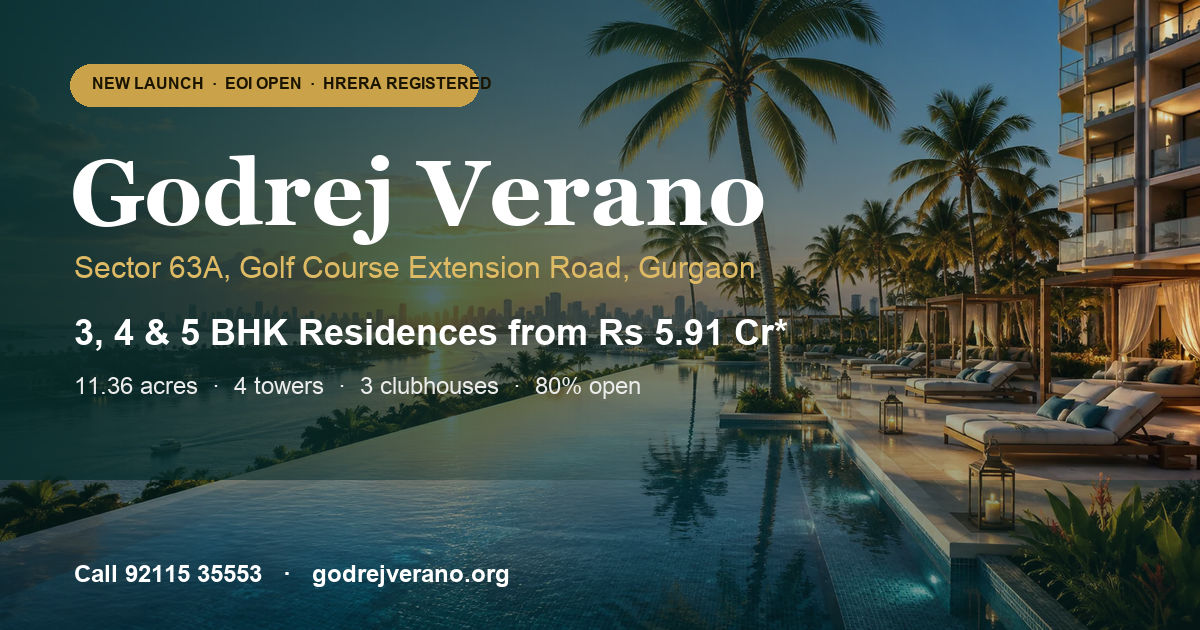
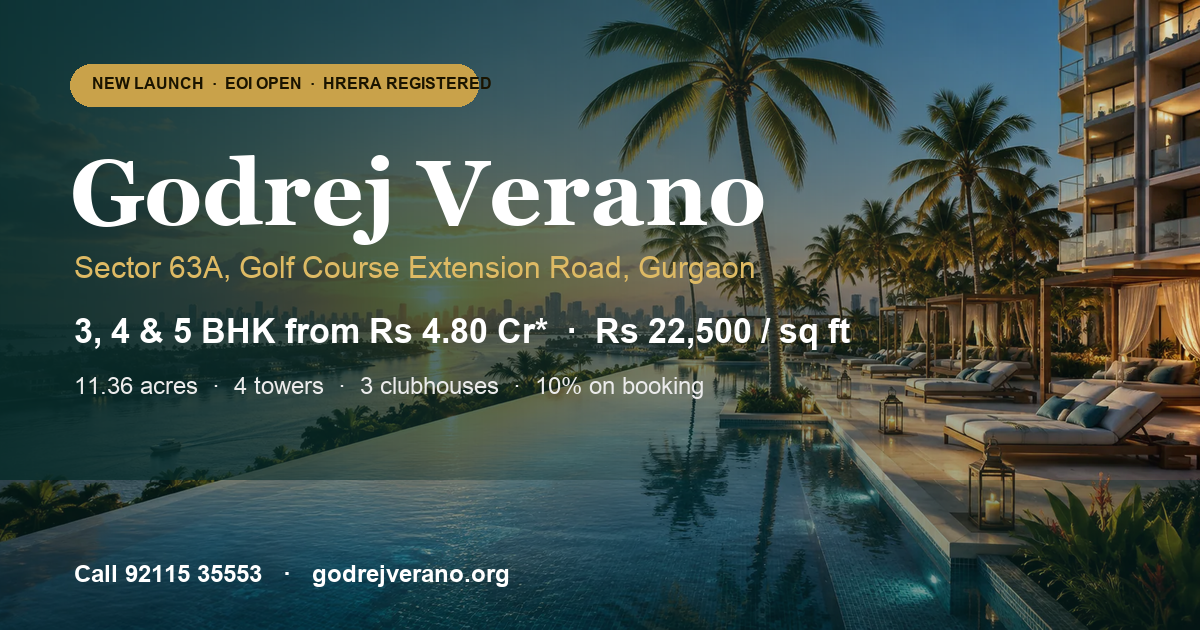
Price at Rs 22,500 per sq ft, new sizes and construction linked payment schedule
3 BHK 2,133 to 2,185 sq ft (Rs 4.80 to 4.92 Cr), 3 BHK + Utility 2,560 to
2,726 (Rs 5.76 to 6.13 Cr), 4 BHK + Utility 2,909 (Rs 6.55 Cr), 5 BHK +
Utility 3,829 (Rs 8.62 Cr). Penthouses removed. 20 x 5 replaced with the
milestone schedule as a table. Title, meta, schema, llms.txt, price band
and share image updated.

Changed region(s): [[0.0617, 0.4825, 0.7092, 0.573], [0.4933, 0.6032, 0.5858, 0.6333], [0.4317, 0.6032, 0.4625, 0.6333]]

diff --git a/index.html b/index.html
@@ -3,8 +3,8 @@
 <head>
 <meta charset="UTF-8">
 <meta name="viewport" content="width=device-width, initial-scale=1">
-<title>Godrej Verano Sector 63A Gurgaon | 3-5 BHK from ₹5.91 Cr*</title>
-<meta name="description" content="Godrej Verano, Sector 63A on Golf Course Extn Road, Gurgaon. 3, 4 &amp; 5 BHK from ₹5.91 Cr*, 3 clubhouses, HRERA registered. Price list &amp; site visit: 9211535553.">
+<title>Godrej Verano Sector 63A Gurgaon | 3-5 BHK from ₹4.80 Cr*</title>
+<meta name="description" content="Godrej Verano, Sector 63A on Golf Course Extn Road, Gurgaon. 3, 4 &amp; 5 BHK from ₹4.80 Cr*, 3 clubhouses, HRERA registered. Price list &amp; site visit: 9211535553.">
 <meta name="keywords" content="Godrej Verano, Godrej Verano Gurgaon, Godrej Verano Sector 63A Gurgaon, Godrej Verano price, Godrej Verano location, Godrej Verano RERA, Godrej Verano HRERA, Godrej Verano brochure PDF, Godrej Verano reviews, Godrej Verano floor plan, Godrej Verano payment plan, Godrej Sector 63A Gurgaon">
 <meta name="robots" content="index, follow, max-snippet:-1, max-image-preview:large, max-video-preview:-1">
 <meta name="googlebot" content="index, follow, max-snippet:-1, max-image-preview:large">
@@ -29,7 +29,7 @@
 <meta property="og:type" content="website">
 <meta property="og:locale" content="en_IN">
 <meta property="og:site_name" content="Godrej Verano Gurgaon">
-<meta property="og:title" content="Godrej Verano Sector 63A Gurgaon | 3, 4 &amp; 5 BHK from ₹5.91 Cr* | Price List &amp; Floor Plans">
+<meta property="og:title" content="Godrej Verano Sector 63A Gurgaon | 3, 4 &amp; 5 BHK from ₹4.80 Cr* | Price List &amp; Floor Plans">
 <meta property="og:description" content="Godrej Properties new launch on Golf Course Extension Road. 11.36 acres, only 4 towers, 3 clubhouses, 80% open. HRERA registered, EOI open. Get the price list on WhatsApp: 9211535553.">
 <meta property="og:url" content="https://godrejverano.org/">
 <meta property="og:image" content="https://godrejverano.org/og.png">
@@ -37,7 +37,7 @@
 <meta property="og:image:height" content="630">
 <meta property="og:image:alt" content="Godrej Verano Sector 63A Gurgaon, 3 4 5 BHK homes on Golf Course Extension Road">
 <meta name="twitter:card" content="summary_large_image">
-<meta name="twitter:title" content="Godrej Verano Sector 63A Gurgaon | 3, 4 &amp; 5 BHK from ₹5.91 Cr*">
+<meta name="twitter:title" content="Godrej Verano Sector 63A Gurgaon | 3, 4 &amp; 5 BHK from ₹4.80 Cr*">
 <meta name="twitter:description" content="Godrej Properties new launch on Golf Course Extension Road. Price list, floor plans, payment plan and site visit. Call 9211535553.">
 <meta name="twitter:image" content="https://godrejverano.org/og.png">
 
@@ -60,8 +60,8 @@
       "@type": "WebPage",
       "@id": "https://godrejverano.org/#webpage",
       "url": "https://godrejverano.org/",
-      "name": "Godrej Verano Sector 63A Gurgaon | 3-5 BHK from ₹5.91 Cr*",
-      "description": "Godrej Verano, Sector 63A on Golf Course Extn Road, Gurgaon. 3, 4 & 5 BHK from ₹5.91 Cr*, 3 clubhouses, HRERA registered. Price list & site visit: 9211535553.",
+      "name": "Godrej Verano Sector 63A Gurgaon | 3-5 BHK from ₹4.80 Cr*",
+      "description": "Godrej Verano, Sector 63A on Golf Course Extn Road, Gurgaon. 3, 4 & 5 BHK from ₹4.80 Cr*, 3 clubhouses, HRERA registered. Price list & site visit: 9211535553.",
       "isPartOf": {
         "@id": "https://godrejverano.org/#website"
       },
@@ -151,7 +151,7 @@
         "https://godrejverano.org/images/floor-plan-3bhk-1400.avif",
         "https://godrejverano.org/images/floor-plan-4bhk-1400.avif"
       ],
-      "description": "Godrej Verano is a residential project by Godrej Properties in Sector 63A, Golf Course Extension Road, Gurugram. 11.36 acres, 4 high rise towers, around 624 homes, 3 clubhouses, 3 BHK, 4 BHK and 5 BHK apartments from 2,150 to 3,900 sq ft.",
+      "description": "Godrej Verano is a residential project by Godrej Properties in Sector 63A, Golf Course Extension Road, Gurugram. 11.36 acres, 4 high rise towers, around 624 homes, 3 clubhouses, 3 BHK, 4 BHK and 5 BHK apartments from 2,133 to 3,829 sq ft.",
       "address": {
         "@type": "PostalAddress",
         "streetAddress": "Sector 63A, Golf Course Extension Road",
@@ -265,7 +265,7 @@
         {
           "@type": "PropertyValue",
           "name": "Base rate",
-          "value": "Approx. ₹27,490 per sq ft super area"
+          "value": "₹22,500 per sq ft super area"
         }
       ]
     },
@@ -274,7 +274,7 @@
       "@id": "https://godrejverano.org/#offer",
       "name": "Godrej Verano 3, 4 and 5 BHK Apartments",
       "image": "https://godrejverano.org/og.png",
-      "description": "3 BHK of 2,150 or 2,250 sq ft, 3 BHK + utility of 2,575 or 2,750 sq ft, 4 BHK + utility of 2,950 sq ft, 5 BHK + utility of 3,900 sq ft at Godrej Verano, Sector 63A Gurugram. Penthouses on request.",
+      "description": "3 BHK of 2,133 to 2,185 sq ft, 3 BHK + utility of 2,560 to 2,726 sq ft, 4 BHK + utility of 2,909 sq ft and 5 BHK + utility of 3,829 sq ft at Godrej Verano, Sector 63A Gurugram, at ₹22,500 per sq ft of super area.",
       "brand": {
         "@type": "Brand",
         "name": "Godrej Properties"
@@ -282,9 +282,9 @@
       "offers": {
         "@type": "AggregateOffer",
         "priceCurrency": "INR",
-        "lowPrice": "59100000",
-        "highPrice": "107200000",
-        "offerCount": "6",
+        "lowPrice": "47992500",
+        "highPrice": "86152500",
+        "offerCount": "4",
         "availability": "https://schema.org/PreOrder",
         "url": "https://godrejverano.org/#price",
         "seller": {
@@ -301,7 +301,7 @@
           "name": "What is the price of Godrej Verano Sector 63A?",
           "acceptedAnswer": {
             "@type": "Answer",
-            "text": "Godrej Verano starts at about ₹5.91 Cr for a 3 BHK of 2,150 sq ft, or ₹6.18 Cr for the 2,250 sq ft version. 3 BHK with utility room is ₹7.08 Cr for 2,575 sq ft or ₹7.56 Cr for 2,750 sq ft, 4 BHK with utility room about ₹8.11 Cr and 5 BHK with utility room about ₹10.72 Cr. The base rate works out to roughly ₹27,490 per sq ft of super area. PLC, floor rise, parking, club charges and GST are extra. Prices are indicative and change with each sales tranche."
+            "text": "Godrej Verano is priced at ₹22,500 per sq ft of super area. That gives a 3 BHK of 2,133 to 2,185 sq ft at ₹4.80 Cr to ₹4.92 Cr, a 3 BHK with utility room of 2,560 to 2,726 sq ft at ₹5.76 Cr to ₹6.13 Cr, a 4 BHK with utility room of 2,909 sq ft at about ₹6.55 Cr and a 5 BHK with utility room of 3,829 sq ft at about ₹8.62 Cr. IFMS, CAM and government charges are extra. Prices change with each sales tranche."
           }
         },
         {
@@ -333,7 +333,7 @@
           "name": "What configurations and sizes are available at Godrej Verano?",
           "acceptedAnswer": {
             "@type": "Answer",
-            "text": "Six layouts: 3 BHK of 2,150 or 2,250 sq ft, 3 BHK + utility room of 2,575 or 2,750 sq ft, 4 BHK + utility room of 2,950 sq ft and 5 BHK + utility room of 3,900 sq ft. Penthouses between roughly 4,500 and 6,500 sq ft are on request. Sizes quoted are super built up area."
+            "text": "Four configurations: 3 BHK of 2,133 to 2,185 sq ft, 3 BHK + utility room of 2,560 to 2,726 sq ft, 4 BHK + utility room of 2,909 sq ft and 5 BHK + utility room of 3,829 sq ft. Sizes quoted are super built up area."
           }
         },
         {
@@ -341,7 +341,7 @@
           "name": "What is the payment plan at Godrej Verano?",
           "acceptedAnswer": {
             "@type": "Answer",
-            "text": "Godrej has indicated a 20 x 5 construction linked payment plan, five instalments of 20 percent each against construction milestones. EOI is ₹10 lakh and gets adjusted in the booking amount. By law the developer cannot take more than 10 percent of the price before the registered agreement for sale. Ask for the written schedule before you pay anything."
+            "text": "The plan is construction linked, with only 10 percent at booking: 5 percent as application money and the rest within 18 days. Then 15 percent on 1 June 2027, 25 percent on completion of the 4th floor slab or 15 September 2028, whichever is later, 25 percent on completion of the 32nd floor, 20 percent on application for the occupation certificate and 5 percent on offer of possession. EOI is ₹10 lakh and gets adjusted in the booking amount. By law the developer cannot take more than 10 percent of the price before the registered agreement for sale. Ask for the written schedule before you pay anything."
           }
         },
         {
@@ -357,7 +357,7 @@
           "name": "Is Godrej Verano a good investment?",
           "acceptedAnswer": {
             "@type": "Answer",
-            "text": "Golf Course Extension Road has been the fastest appreciating corridor in Gurgaon over the last four years, and Sector 63A is one of the last large land parcels on it. Godrej paid roughly ₹1,000 Cr for 11.36 acres and expects ₹4,500 Cr in sales, which tells you how the developer views the location. That said, this is a 2033 completion project at ₹27,000 plus per sq ft, so it suits end users and patient investors, not short term flippers."
+            "text": "Golf Course Extension Road has been the fastest appreciating corridor in Gurgaon over the last four years, and Sector 63A is one of the last large land parcels on it. Godrej paid roughly ₹1,000 Cr for 11.36 acres and expects ₹4,500 Cr in sales, which tells you how the developer views the location. That said, this is a 2033 completion project at ₹22,500 per sq ft, so it suits end users and patient investors, not short term flippers."
           }
         },
         {
@@ -462,12 +462,12 @@
     <div class="hero__copy">
       <p class="eyebrow"><span class="dot"></span> New Launch &middot; EOI Open &middot; HRERA Registered</p>
       <h1>Godrej Verano, Sector 63A Gurgaon<span class="h1-sub">3, 4 &amp; 5 BHK homes on Golf Course Extension Road</span></h1>
-      <p class="hero__lead">Godrej Verano Gurgaon is Godrej Properties' biggest launch in the city this year. 11.36 acres, only 4 towers, 3 clubhouses and over 80 percent of the land left open. Starting <strong>₹5.91 Cr*</strong> for a 2,150 sq ft 3 BHK.</p>
+      <p class="hero__lead">Godrej Verano Gurgaon is Godrej Properties' biggest launch in the city this year. 11.36 acres, only 4 towers, 3 clubhouses and over 80 percent of the land left open. Starting <strong>₹4.80 Cr*</strong> for a 2,133 sq ft 3 BHK, at ₹22,500 per sq ft.</p>
       <ul class="hero__points">
         <li><strong>4 homes per floor</strong>, every flat a corner unit</li>
         <li><strong>2 lakh sq ft</strong> of club space across 3 clubs</li>
         <li><strong>2 min</strong> from Golf Course Extn Road, 30 min to IGI Airport</li>
-        <li><strong>20 x 5 payment plan</strong>, EOI ₹10 lakh (adjustable)</li>
+        <li><strong>10% on booking</strong>, next 15% only on 1 June 2027</li>
       </ul>
       <div class="hero__actions">
         <a href="#enquiry" class="btn btn--primary btn--lg">Download Price List &amp; Brochure</a>
@@ -491,11 +491,10 @@
         <label>Email (optional)<input type="email" name="email" autocomplete="email" placeholder="you@example.com"></label>
         <label>Interested in
           <select name="config">
-            <option>3 BHK (2,150 / 2,250 sq ft)</option>
-            <option>3 BHK + Utility (2,575 / 2,750 sq ft)</option>
-            <option>4 BHK + Utility (2,950 sq ft)</option>
-            <option>5 BHK + Utility (3,900 sq ft)</option>
-            <option>Penthouse</option>
+            <option>3 BHK (2,133 to 2,185 sq ft)</option>
+            <option>3 BHK + Utility (2,560 to 2,726 sq ft)</option>
+            <option>4 BHK + Utility (2,909 sq ft)</option>
+            <option>5 BHK + Utility (3,829 sq ft)</option>
             <option>Not sure yet, need advice</option>
           </select>
         </label>
@@ -515,7 +514,7 @@
     <div><strong>4</strong><span>Towers, G+39 and G+40</span></div>
     <div><strong>3</strong><span>Clubhouses</span></div>
     <div><strong>80%+</strong><span>Open and green</span></div>
-    <div><strong>₹5.91 Cr*</strong><span>Starting price</span></div>
+    <div><strong>₹4.80 Cr*</strong><span>Starting price</span></div>
     <div><strong>2033</strong><span>RERA completion, possession</span></div>
   </div>
 </section>
@@ -544,7 +543,7 @@
           </li>
           <li>
             <span class="ov-pt__icon"><svg viewBox="0 0 24 24" fill="none" stroke="currentColor" stroke-width="1.8" stroke-linecap="round" stroke-linejoin="round" aria-hidden="true"><path d="M3 11l9-7 9 7v9a1 1 0 0 1-1 1H4a1 1 0 0 1-1-1z"/><path d="M9 21v-7h6v7"/></svg></span>
-            <div><h3>The homes</h3><p>3 BHK from 2,150 sq ft up to 5 BHK at 3,900 sq ft, all with utility room from the 3 BHK + S upwards, and penthouses to around 6,500 sq ft.</p></div>
+            <div><h3>The homes</h3><p>3 BHK from 2,133 sq ft up to 5 BHK at 3,829 sq ft, with a utility room in every layout from the 3 BHK + Utility upwards. Priced at ₹22,500 per sq ft of super area.</p></div>
           </li>
           <li>
             <span class="ov-pt__icon"><svg viewBox="0 0 24 24" fill="none" stroke="currentColor" stroke-width="1.8" stroke-linecap="round" stroke-linejoin="round" aria-hidden="true"><circle cx="12" cy="12" r="9"/><path d="M12 7v5l3 2"/></svg></span>
@@ -589,10 +588,10 @@
         <div><dt>Floors</dt><dd>G+39 (Towers 1, 4) and G+40 (Towers 2, 3)</dd></div>
         <div><dt>Homes per floor</dt><dd>4, so every flat is a corner unit</dd></div>
         <div><dt>Total homes</dt><dd>624 homes plus 6 shops</dd></div>
-        <div><dt>Configurations</dt><dd>3, 4, 5 BHK with utility room, penthouses</dd></div>
-        <div><dt>Sizes</dt><dd>2,150 to 3,900 sq ft super area</dd></div>
-        <div><dt>Price</dt><dd>₹5.91 Cr* onwards, approx. ₹27,490 per sq ft</dd></div>
-        <div><dt>Payment plan</dt><dd>20 x 5 construction linked</dd></div>
+        <div><dt>Configurations</dt><dd>3 BHK, and 3, 4, 5 BHK with utility room</dd></div>
+        <div><dt>Sizes</dt><dd>2,133 to 3,829 sq ft super area</dd></div>
+        <div><dt>Price</dt><dd>₹4.80 Cr* onwards, ₹22,500 per sq ft</dd></div>
+        <div><dt>Payment plan</dt><dd>Construction linked, 10% on booking</dd></div>
         <div><dt>EOI</dt><dd>₹10 lakh, adjusted in booking</dd></div>
         <div><dt>HRERA No.</dt><dd>RC/REP/HARERA/GGM/1081/813/2026/53, 11.08.2026</dd></div>
         <div><dt>License</dt><dd>129 of 2025, dated 23.07.2025</dd></div>
@@ -664,20 +663,16 @@
   <div class="wrap">
     <p class="kicker">Price List</p>
     <h2>Godrej Verano price list 2026</h2>
-    <p class="lead" id="price-summary">Prices below are from the pre launch tranche shared by Godrej with channel partners. The base rate is a flat ₹27,490 per sq ft of super built up area across all layouts. Final price depends on floor, PLC, parking and club charges, plus GST. Treat these as a starting point and ask for the current sheet.</p>
+    <p class="lead" id="price-summary">Prices below are from the current price sheet. The base rate is ₹22,500 per sq ft of super built up area across all layouts, which is how every price in the table is worked out. IFMS, CAM and government charges are extra. Prices change tranche to tranche, so ask for the current sheet before you decide.</p>
     <div class="table-wrap">
       <table class="price-table">
-        <caption>Godrej Verano Sector 63A indicative prices (super area, excluding PLC, parking, club charges and taxes)</caption>
+        <caption>Godrej Verano Sector 63A prices at ₹22,500 per sq ft of super area. IFMS, CAM and government charges extra.</caption>
         <thead><tr><th>Configuration</th><th>Super area</th><th>Indicative price</th><th>Rate per sq ft</th><th></th></tr></thead>
         <tbody>
-
-          <tr><td><strong>3 BHK</strong></td><td>2,150 sq ft</td><td>₹5.91 Cr* onwards</td><td>₹27,490</td><td><a href="#enquiry" class="link-cta">Get exact price</a></td></tr>
-          <tr><td><strong>3 BHK</strong></td><td>2,250 sq ft</td><td>₹6.18 Cr* onwards</td><td>₹27,470</td><td><a href="#enquiry" class="link-cta">Get exact price</a></td></tr>
-          <tr><td><strong>3 BHK + Utility</strong></td><td>2,575 sq ft</td><td>₹7.08 Cr* onwards</td><td>₹27,490</td><td><a href="#enquiry" class="link-cta">Get exact price</a></td></tr>
-          <tr><td><strong>3 BHK + Utility</strong></td><td>2,750 sq ft</td><td>₹7.56 Cr* onwards</td><td>₹27,490</td><td><a href="#enquiry" class="link-cta">Get exact price</a></td></tr>
-          <tr><td><strong>4 BHK + Utility</strong></td><td>2,950 sq ft</td><td>₹8.11 Cr* onwards</td><td>₹27,490</td><td><a href="#enquiry" class="link-cta">Get exact price</a></td></tr>
-          <tr><td><strong>5 BHK + Utility</strong></td><td>3,900 sq ft</td><td>₹10.72 Cr* onwards</td><td>₹27,490</td><td><a href="#enquiry" class="link-cta">Get exact price</a></td></tr>
-          <tr><td><strong>Penthouse</strong></td><td>On request</td><td>On request</td><td>On request</td><td><a href="#enquiry" class="link-cta">Enquire</a></td></tr>
+          <tr><td><strong>3 BHK</strong></td><td>2,133 to 2,185 sq ft</td><td>₹4.80 Cr* to ₹4.92 Cr*</td><td>₹22,500</td><td><a href="#enquiry" class="link-cta">Get exact price</a></td></tr>
+          <tr><td><strong>3 BHK + Utility</strong></td><td>2,560 to 2,726 sq ft</td><td>₹5.76 Cr* to ₹6.13 Cr*</td><td>₹22,500</td><td><a href="#enquiry" class="link-cta">Get exact price</a></td></tr>
+          <tr><td><strong>4 BHK + Utility</strong></td><td>2,909 sq ft</td><td>₹6.55 Cr*</td><td>₹22,500</td><td><a href="#enquiry" class="link-cta">Get exact price</a></td></tr>
+          <tr><td><strong>5 BHK + Utility</strong></td><td>3,829 sq ft</td><td>₹8.62 Cr*</td><td>₹22,500</td><td><a href="#enquiry" class="link-cta">Get exact price</a></td></tr>
 
         </tbody>
       </table>
@@ -694,56 +689,56 @@
     <p class="lead">Unit plans are shared by Godrej on request after EOI, so what follows is from the brochure and sample flat. All four homes on a floor are corner units with wraparound balconies.</p>
     <div class="grid-4">
       <article class="plan card">
-        <picture class="pic plan__img-wrap"><source type="image/avif" srcset="images/floor-plan-3bhk-800.avif 800w, images/floor-plan-3bhk-1400.avif 1400w" sizes="(max-width: 720px) 100vw, 25vw"><img class="plan__img" src="images/floor-plan-3bhk-800.webp" srcset="images/floor-plan-3bhk-800.webp 800w, images/floor-plan-3bhk-1400.webp 1400w" sizes="(max-width: 720px) 100vw, 25vw" width="1400" height="700" alt="Godrej Verano 3 BHK floor plan 3D layout, 2,150 sq ft, Sector 63A Gurgaon" loading="lazy" decoding="async" data-full="images/floor-plan-3bhk-1400.avif"></picture>
+        <picture class="pic plan__img-wrap"><source type="image/avif" srcset="images/floor-plan-3bhk-800.avif 800w, images/floor-plan-3bhk-1400.avif 1400w" sizes="(max-width: 720px) 100vw, 25vw"><img class="plan__img" src="images/floor-plan-3bhk-800.webp" srcset="images/floor-plan-3bhk-800.webp 800w, images/floor-plan-3bhk-1400.webp 1400w" sizes="(max-width: 720px) 100vw, 25vw" width="1400" height="700" alt="Godrej Verano 3 BHK floor plan 3D layout, 2,133 sq ft, Sector 63A Gurgaon" loading="lazy" decoding="async" data-full="images/floor-plan-3bhk-1400.avif"></picture>
         <h3>3 BHK</h3>
-        <p class="plan__size">2,150 or 2,250 sq ft super area</p>
+        <p class="plan__size">2,133 to 2,185 sq ft super area</p>
         <ul>
           <li>3 bedrooms, 3 bathrooms</li>
           <li>Open living and dining with large deck</li>
           <li>Separate kitchen with utility</li>
           <li>Powder room near entry</li>
         </ul>
-        <p class="plan__price">₹5.91 Cr* / ₹6.18 Cr*</p>
+        <p class="plan__price">₹4.80 Cr* onwards</p>
         <a href="#enquiry" class="btn btn--outline btn--full">Request 3 BHK plan</a>
       </article>
       <article class="plan card">
-        <picture class="pic plan__img-wrap"><source type="image/avif" srcset="images/floor-plan-3bhk-800.avif 800w, images/floor-plan-3bhk-1400.avif 1400w" sizes="(max-width: 720px) 100vw, 25vw"><img class="plan__img" src="images/floor-plan-3bhk-800.webp" srcset="images/floor-plan-3bhk-800.webp 800w, images/floor-plan-3bhk-1400.webp 1400w" sizes="(max-width: 720px) 100vw, 25vw" width="1400" height="700" alt="Godrej Verano 3 BHK with utility room floor plan, 2,575 sq ft, representative 3D layout" loading="lazy" decoding="async" data-full="images/floor-plan-3bhk-1400.avif"></picture>
+        <picture class="pic plan__img-wrap"><source type="image/avif" srcset="images/floor-plan-3bhk-800.avif 800w, images/floor-plan-3bhk-1400.avif 1400w" sizes="(max-width: 720px) 100vw, 25vw"><img class="plan__img" src="images/floor-plan-3bhk-800.webp" srcset="images/floor-plan-3bhk-800.webp 800w, images/floor-plan-3bhk-1400.webp 1400w" sizes="(max-width: 720px) 100vw, 25vw" width="1400" height="700" alt="Godrej Verano 3 BHK with utility room floor plan, 2,560 sq ft, representative 3D layout" loading="lazy" decoding="async" data-full="images/floor-plan-3bhk-1400.avif"></picture>
         <h3>3 BHK + Utility</h3>
-        <p class="plan__size">2,575 or 2,750 sq ft super area</p>
+        <p class="plan__size">2,560 to 2,726 sq ft super area</p>
         <ul>
           <li>3 bedrooms plus study or family lounge</li>
           <li>Utility room with separate toilet</li>
           <li>Two balconies, larger master suite</li>
           <li>Walk in wardrobe in master</li>
         </ul>
-        <p class="plan__price">₹7.08 Cr* / ₹7.56 Cr*</p>
+        <p class="plan__price">₹5.76 Cr* onwards</p>
         <a href="#enquiry" class="btn btn--outline btn--full">Request 3 BHK + Utility plan</a>
       </article>
       <article class="plan card plan--hot">
         <span class="plan__badge">Most enquired</span>
-        <picture class="pic plan__img-wrap"><source type="image/avif" srcset="images/floor-plan-4bhk-800.avif 800w, images/floor-plan-4bhk-1400.avif 1400w" sizes="(max-width: 720px) 100vw, 25vw"><img class="plan__img" src="images/floor-plan-4bhk-800.webp" srcset="images/floor-plan-4bhk-800.webp 800w, images/floor-plan-4bhk-1400.webp 1400w" sizes="(max-width: 720px) 100vw, 25vw" width="1400" height="700" alt="Godrej Verano 4 BHK with utility room floor plan 3D layout, 2,950 sq ft, Sector 63A Gurgaon" loading="lazy" decoding="async" data-full="images/floor-plan-4bhk-1400.avif"></picture>
+        <picture class="pic plan__img-wrap"><source type="image/avif" srcset="images/floor-plan-4bhk-800.avif 800w, images/floor-plan-4bhk-1400.avif 1400w" sizes="(max-width: 720px) 100vw, 25vw"><img class="plan__img" src="images/floor-plan-4bhk-800.webp" srcset="images/floor-plan-4bhk-800.webp 800w, images/floor-plan-4bhk-1400.webp 1400w" sizes="(max-width: 720px) 100vw, 25vw" width="1400" height="700" alt="Godrej Verano 4 BHK with utility room floor plan 3D layout, 2,909 sq ft, Sector 63A Gurgaon" loading="lazy" decoding="async" data-full="images/floor-plan-4bhk-1400.avif"></picture>
         <h3>4 BHK + Utility</h3>
-        <p class="plan__size">2,950 sq ft super area</p>
+        <p class="plan__size">2,909 sq ft super area</p>
         <ul>
           <li>4 bedrooms, all with attached baths</li>
           <li>Grand living, separate dining, family lounge</li>
           <li>Utility room with independent access</li>
           <li>Three sides open on most floors</li>
         </ul>
-        <p class="plan__price">₹8.11 Cr* onwards</p>
+        <p class="plan__price">₹6.55 Cr*</p>
         <a href="#enquiry" class="btn btn--primary btn--full">Request 4 BHK + Utility plan</a>
       </article>
       <article class="plan card">
-        <picture class="pic plan__img-wrap"><source type="image/avif" srcset="images/floor-plan-iso-600.avif"><img class="plan__img plan__img--iso" src="images/floor-plan-iso-600.webp" width="600" height="782" alt="Godrej Verano 5 BHK with utility room isometric floor plan, 3,900 sq ft, representative layout" loading="lazy" decoding="async" data-full="images/floor-plan-iso-600.avif"></picture>
+        <picture class="pic plan__img-wrap"><source type="image/avif" srcset="images/floor-plan-iso-600.avif"><img class="plan__img plan__img--iso" src="images/floor-plan-iso-600.webp" width="600" height="782" alt="Godrej Verano 5 BHK with utility room isometric floor plan, 3,829 sq ft, representative layout" loading="lazy" decoding="async" data-full="images/floor-plan-iso-600.avif"></picture>
         <h3>5 BHK + Utility</h3>
-        <p class="plan__size">3,900 sq ft super area</p>
+        <p class="plan__size">3,829 sq ft super area</p>
         <ul>
           <li>5 bedrooms with private family wing</li>
           <li>Double height feel in living on select floors</li>
           <li>Two utility rooms on some layouts</li>
           <li>Limited units per tower</li>
         </ul>
-        <p class="plan__price">₹10.72 Cr* onwards</p>
+        <p class="plan__price">₹8.62 Cr*</p>
         <a href="#enquiry" class="btn btn--outline btn--full">Request 5 BHK + Utility plan</a>
       </article>
     </div>
@@ -1054,7 +1049,7 @@
         <ul>
           <li>Resale in finished towers on this stretch: ₹18,000 to ₹22,000 per sq ft in 2026</li>
           <li>New launches on the corridor: ₹25,000 to ₹30,000 per sq ft</li>
-          <li>Verano at ₹27,490 is priced with new supply. You are paying for a 2033 product at 2026 rates</li>
+          <li>Verano at ₹22,500 sits below the other new launches on the road and only just above finished resale, for a 2033 product</li>
         </ul>
       </article>
     </div>
@@ -1067,7 +1062,7 @@
         <div class="band__track">
           <div class="band__range band__range--resale" style="left:17.6%;width:23.5%"><span>Resale, finished towers<br>₹18,000 to ₹22,000</span></div>
           <div class="band__range band__range--new" style="left:58.8%;width:29.4%"><span>New launches<br>₹25,000 to ₹30,000</span></div>
-          <div class="band__marker" style="left:73.5%"><b>Godrej Verano</b><i>₹27,490</i></div>
+          <div class="band__marker" style="left:44.1%"><b>Godrej Verano</b><i>₹22,500</i></div>
         </div>
         <div class="band__ticks"><span>₹15k</span><span>₹20k</span><span>₹25k</span><span>₹30k</span><span>₹32k</span></div>
       </div>
@@ -1098,9 +1093,24 @@
       </div>
       <div class="step">
         <span class="step__num">4</span>
-        <h3>20 x 5 construction linked plan</h3>
-        <p>Godrej has indicated a 20 x 5 plan for this launch: five instalments of 20 percent each, released against construction milestones. We will share the written milestone schedule before you pay anything beyond the EOI.</p>
+        <h3>Construction linked payments</h3>
+        <p>Only 10 percent is due at booking. The remaining 90 percent is paid against dates and construction milestones, with the next 15 percent not due until 1 June 2027. The full schedule is below.</p>
       </div>
+    </div>
+    <div class="table-wrap pay-table-wrap">
+      <table class="price-table pay-table">
+        <caption>Godrej Verano payment schedule. IFMS, CAM and government charges are payable as per the developer's demand.</caption>
+        <thead><tr><th>Milestone</th><th>Payable</th></tr></thead>
+        <tbody>
+          <tr><td>Application money, part of the booking amount</td><td><strong>5%</strong></td></tr>
+          <tr><td>Within 18 days of booking, balance up to 10% of the price</td><td><strong>5%</strong></td></tr>
+          <tr><td>On 1 June 2027</td><td><strong>15%</strong></td></tr>
+          <tr><td>On completion of the 4th floor slab or 15 September 2028, whichever is later</td><td><strong>25%</strong></td></tr>
+          <tr><td>On completion of the 32nd floor</td><td><strong>25%</strong></td></tr>
+          <tr><td>On application for the occupation certificate</td><td><strong>20%</strong></td></tr>
+          <tr><td>On offer of possession</td><td><strong>5%</strong></td></tr>
+        </tbody>
+      </table>
     </div>
     <div class="inline-cta inline-cta--center">
       <a href="#enquiry" class="btn btn--primary btn--lg">Get the payment schedule</a>
@@ -1141,7 +1151,7 @@
     <div class="faq">
       <details open>
         <summary>What is the price of Godrej Verano Sector 63A?</summary>
-        <div><p>Godrej Verano starts at about ₹5.91 Cr for a 3 BHK of 2,150 sq ft, or ₹6.18 Cr for the 2,250 sq ft version. 3 BHK with utility room is ₹7.08 Cr for 2,575 sq ft or ₹7.56 Cr for 2,750 sq ft, 4 BHK with utility room about ₹8.11 Cr and 5 BHK with utility room about ₹10.72 Cr. The base rate works out to roughly ₹27,490 per sq ft of super area. PLC, floor rise, parking, club charges and GST are extra. Prices are indicative and change with each sales tranche.</p></div>
+        <div><p>Godrej Verano is priced at ₹22,500 per sq ft of super area. That gives a 3 BHK of 2,133 to 2,185 sq ft at ₹4.80 Cr to ₹4.92 Cr, a 3 BHK with utility room of 2,560 to 2,726 sq ft at ₹5.76 Cr to ₹6.13 Cr, a 4 BHK with utility room of 2,909 sq ft at about ₹6.55 Cr and a 5 BHK with utility room of 3,829 sq ft at about ₹8.62 Cr. IFMS, CAM and government charges are extra. Prices change with each sales tranche.</p></div>
       </details>
       <details>
         <summary>Where exactly is Godrej Verano located?</summary>
@@ -1157,11 +1167,11 @@
       </details>
       <details>
         <summary>What configurations and sizes are available at Godrej Verano?</summary>
-        <div><p>Six layouts: 3 BHK of 2,150 or 2,250 sq ft, 3 BHK + utility room of 2,575 or 2,750 sq ft, 4 BHK + utility room of 2,950 sq ft and 5 BHK + utility room of 3,900 sq ft. Penthouses between roughly 4,500 and 6,500 sq ft are on request. Sizes quoted are super built up area.</p></div>
+        <div><p>Four configurations: 3 BHK of 2,133 to 2,185 sq ft, 3 BHK + utility room of 2,560 to 2,726 sq ft, 4 BHK + utility room of 2,909 sq ft and 5 BHK + utility room of 3,829 sq ft. Sizes quoted are super built up area.</p></div>
       </details>
       <details>
         <summary>What is the payment plan at Godrej Verano?</summary>
-        <div><p>Godrej has indicated a 20 x 5 construction linked payment plan, five instalments of 20 percent each against construction milestones. EOI is ₹10 lakh and gets adjusted in the booking amount. By law the developer cannot take more than 10 percent of the price before the registered agreement for sale. Ask for the written schedule before you pay anything.</p></div>
+        <div><p>The plan is construction linked, with only 10 percent at booking: 5 percent as application money and the rest within 18 days. Then 15 percent on 1 June 2027, 25 percent on completion of the 4th floor slab or 15 September 2028, whichever is later, 25 percent on completion of the 32nd floor, 20 percent on application for the occupation certificate and 5 percent on offer of possession. EOI is ₹10 lakh and gets adjusted in the booking amount. By law the developer cannot take more than 10 percent of the price before the registered agreement for sale. Ask for the written schedule before you pay anything.</p></div>
       </details>
       <details>
         <summary>How many towers and flats does Godrej Verano have?</summary>
@@ -1169,7 +1179,7 @@
       </details>
       <details>
         <summary>Is Godrej Verano a good investment?</summary>
-        <div><p>Golf Course Extension Road has been the fastest appreciating corridor in Gurgaon over the last four years, and Sector 63A is one of the last large land parcels on it. Godrej paid roughly ₹1,000 Cr for 11.36 acres and expects ₹4,500 Cr in sales, which tells you how the developer views the location. That said, this is a 2033 completion project at ₹27,000 plus per sq ft, so it suits end users and patient investors, not short term flippers.</p></div>
+        <div><p>Golf Course Extension Road has been the fastest appreciating corridor in Gurgaon over the last four years, and Sector 63A is one of the last large land parcels on it. Godrej paid roughly ₹1,000 Cr for 11.36 acres and expects ₹4,500 Cr in sales, which tells you how the developer views the location. That said, this is a 2033 completion project at ₹22,500 per sq ft, so it suits end users and patient investors, not short term flippers.</p></div>
       </details>
       <details>
         <summary>Which schools and hospitals are near Godrej Verano?</summary>
@@ -1208,7 +1218,7 @@
         <li>Godrej Verano brochure PDF with elevations and master plan</li>
         <li>Current tranche price list and cost sheet</li>
         <li>3, 4 and 5 BHK floor plans</li>
-        <li>20 x 5 payment schedule in writing</li>
+        <li>Payment schedule in writing</li>
         <li>Sample flat visit, pickup available in Gurgaon</li>
         <li>Help with EOI, unit selection and home loan</li>
       </ul>
@@ -1228,11 +1238,10 @@
         <div class="row">
           <label>Configuration
             <select name="config">
-              <option>3 BHK (2,150 / 2,250 sq ft)</option>
-              <option>3 BHK + Utility (2,575 / 2,750 sq ft)</option>
-              <option>4 BHK + Utility (2,950 sq ft)</option>
-              <option>5 BHK + Utility (3,900 sq ft)</option>
-              <option>Penthouse</option>
+              <option>3 BHK (2,133 to 2,185 sq ft)</option>
+              <option>3 BHK + Utility (2,560 to 2,726 sq ft)</option>
+              <option>4 BHK + Utility (2,909 sq ft)</option>
+              <option>5 BHK + Utility (3,829 sq ft)</option>
               <option>Not sure yet</option>
             </select>
           </label>

diff --git a/style.css b/style.css
@@ -493,3 +493,10 @@ picture.pic{display:contents}
 .card__head h3{font-family:var(--font-head);font-size:1.5rem;margin-bottom:6px;color:var(--green)}
 .modal__box h3{font-family:var(--font-head);font-size:1.4rem;color:var(--green);margin-bottom:6px}
 .updated{font-size:.82rem;color:var(--muted);margin:-4px 0 14px}
+
+/* Payment schedule table */
+.pay-table-wrap{margin-top:24px}
+.pay-table{min-width:0}
+.pay-table td:last-child,.pay-table th:last-child{text-align:right;white-space:nowrap}
+.pay-table td:last-child strong{color:var(--green);font-family:var(--font-head);font-size:1.05rem}
+@media (max-width:720px){.pay-table th,.pay-table td{padding:12px 12px;font-size:.88rem}.pay-table td:last-child{white-space:normal}}
